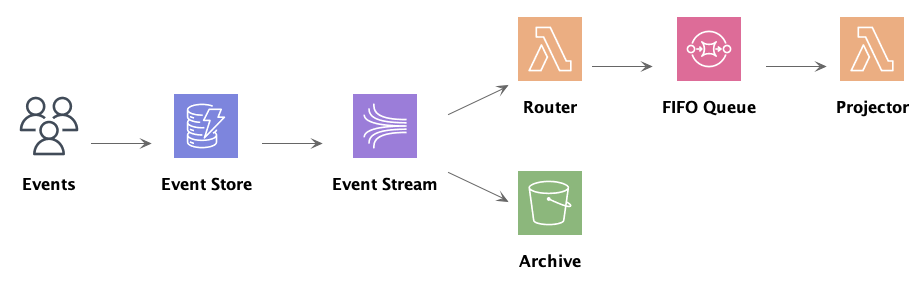
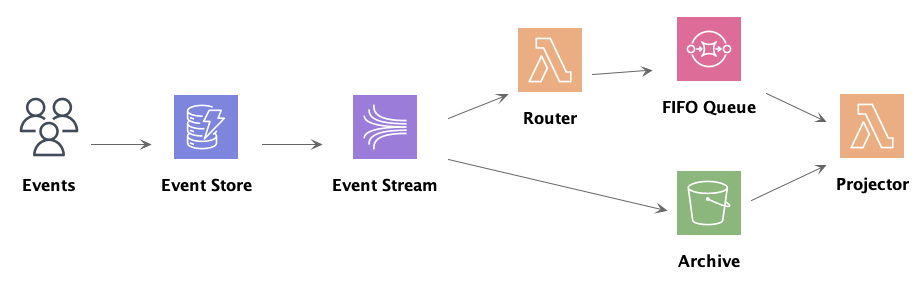
Explain the architecture diagram

diff --git a/README.md b/README.md
@@ -1,3 +1,10 @@
 # Moronic Puppy
 
 ![Moronic Puppy Architecture Diagram](/docs/architecture.png)
+
+1. The **Event Store** (DynamoDB) holds the live events for quick, easy retrieval.
+1. The **Event Stream** (Kinesis) forwards on changes from the **Event Store**.
+1. Events on the **Event Stream** are pushed into the **Archive** (S3) using a Kinesis Firehose.
+1. The **Router** (Lambda) iterates over the event stream and fans out to one or more **Projectors**.
+1. The **Queue** (SQS FIFO Queue) holds events until they are ready to be processed by the **Projector**.
+1. The **Projector** (Lambda) processes all events by first reading from the **Archive** and then the **Queue**.
